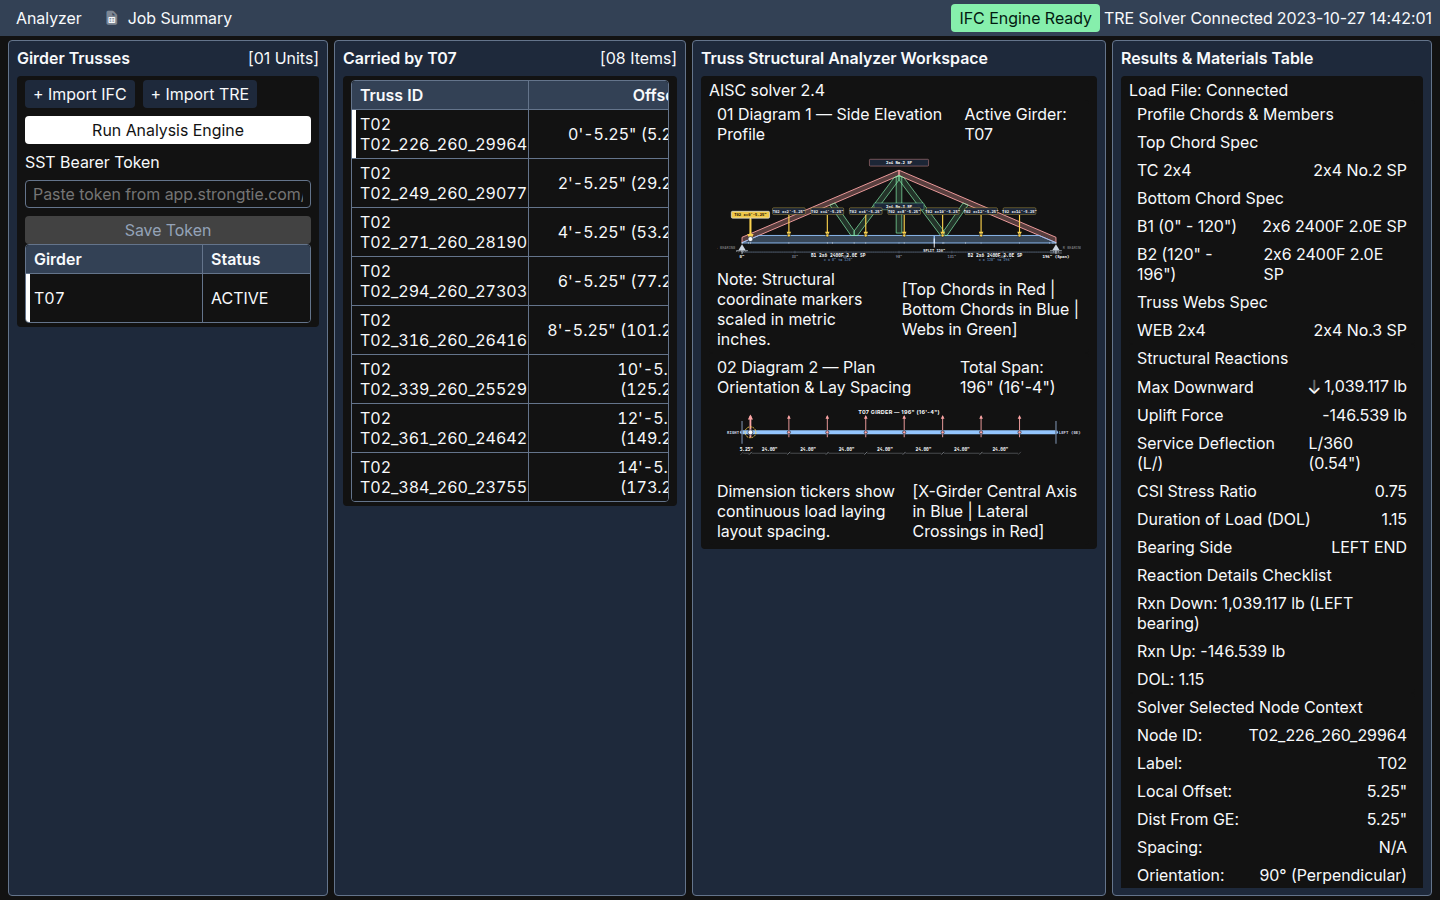
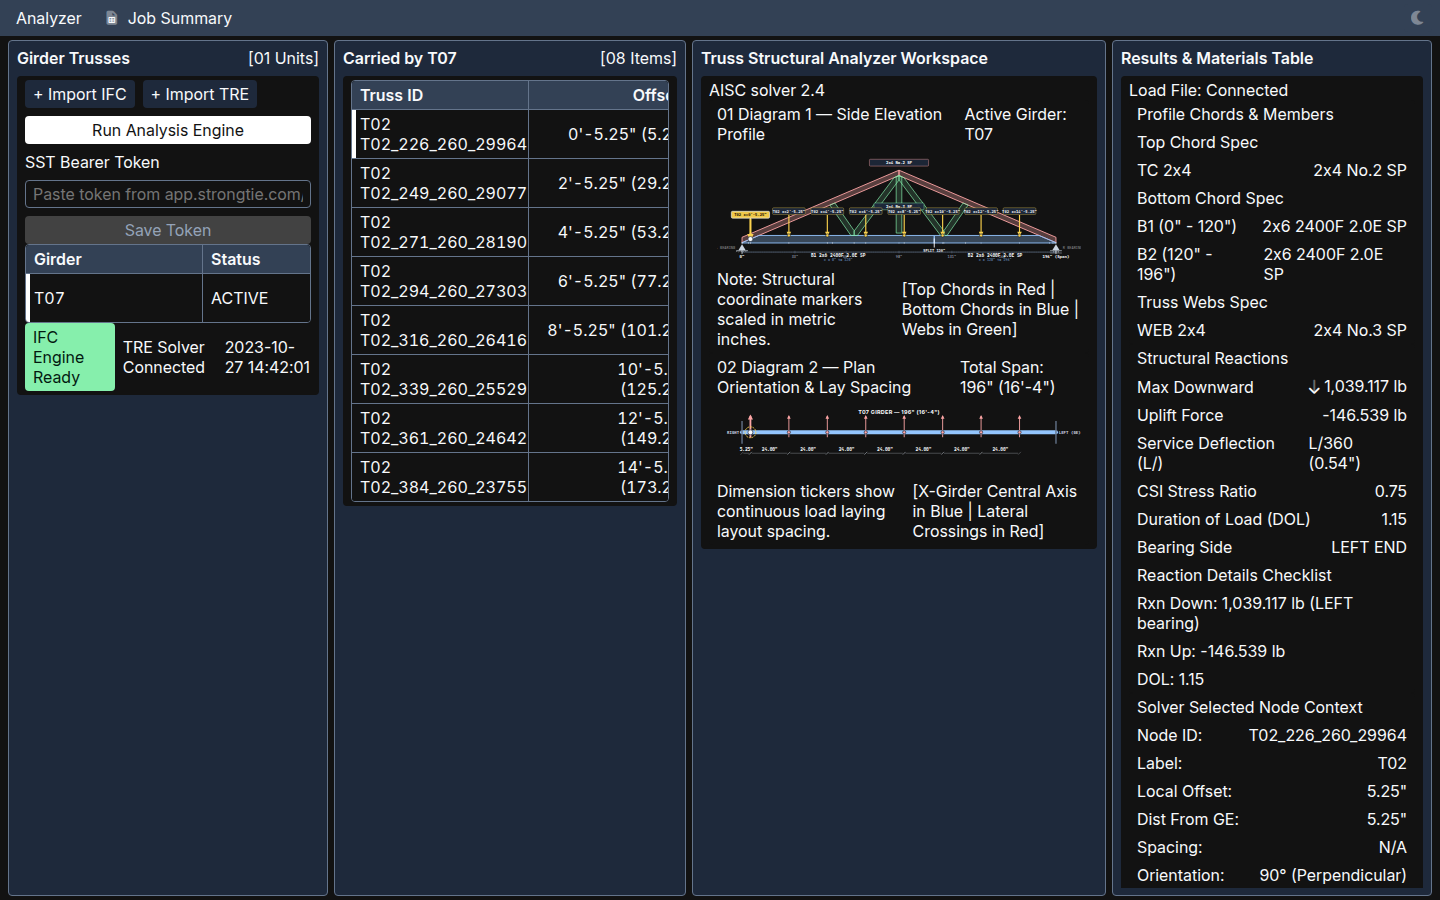
feat:aaui

Changed region(s): [[0.0, 0.3422, 0.2188, 0.4667], [0.6562, 0.0, 1.0, 0.0622]]

diff --git a/src/App.tsx b/src/App.tsx
@@ -118,11 +118,9 @@ export default function App() {
                 </a>
             </nav>
             <div className={AUI.topSpacer}></div>
-            <div className={AUI.topNav} role="group" aria-label="Status">
-                <span className={AUI.chipSuccess}><span className={AUI.chipLabel} {...ATTR}>IFC Engine Ready</span></span>
-                <span className={AUI.text} {...ATTR}>TRE Solver Connected</span>
-                <span className={AUI.text} {...ATTR}>2023-10-27 14:42:01</span>
-            </div>
+            <button type="button" aria-label="Toggle theme" data-aui-theme-toggle className={AUI.topButton}>
+                <AuiIcon name="moon" />
+            </button>
         </div>
 
         <div className={AUI.panes} data-aui-panes="page under-bar">
@@ -141,6 +139,11 @@ export default function App() {
                     selectedId={selectedGirderId}
                     onSelect={(id) => { setSelectedGirderId(id); setActiveTab('analyzer'); }}
                 />
+                <div className={AUI.row} role="group" aria-label="Status">
+                    <span className={AUI.chipSuccess}><span className={AUI.chipLabel} {...ATTR}>IFC Engine Ready</span></span>
+                    <span className={AUI.text} {...ATTR}>TRE Solver Connected</span>
+                    <span className={AUI.text} {...ATTR}>2023-10-27 14:42:01</span>
+                </div>
             </AuiPane>
 
             {/* Main content area */}

diff --git a/src/aui.ts b/src/aui.ts
@@ -42,6 +42,7 @@ export const AUI = {
   linkSelected: `${STATEFUL} aui-scale-default-sm aui-typography-typescale-default aui-shape-soft aui-color-solid-secondary aui-elevation-0 aui-text-decoration-none`,
   buttonRaised: `${STATEFUL} aui-scale-default-sm aui-typography-typescale-default aui-shape-soft aui-color-text-raised aui-elevation-0`,
   buttonRaisedSelected: `${STATEFUL} aui-scale-default-sm aui-typography-typescale-default aui-shape-soft aui-color-solid-secondary aui-elevation-0`,
+  topButton: `${STATEFUL} aui-scale-square-sm aui-typography-typescale-default aui-shape-soft aui-color-solid-raised aui-elevation-0`,
   iconButton: `${STATEFUL} aui-scale-square-sm aui-typography-typescale-default aui-shape-soft aui-color-solid-surface-alt aui-elevation-0`,
   iconWrap: 'aui-contained-icon aui-icon-lh-l3 aui-bg-transparent aui-min-width-0 aui-min-height-0 aui-padding-inline-start-0 aui-padding-inline-end-0 aui-padding-block-start-0 aui-padding-block-end-0 aui-gap-0 aui-shape-soft',
   icon: 'aui-icon aui-icon-size-fallback-14',

diff --git a/GAPS.md b/GAPS.md
@@ -1,7 +1,7 @@
 - No part: progress bar (JobSummaryTable batch query). The standard has no Progress recipe; the browser's own `<progress>` is used.
 - No part: drawings (`PlanViewDiagram`, `SideElevationDiagram` in GirderDetails.tsx).
 - Decision: clickable boxes (GirderList rows became `button`s; section headers still to decide).
-- Gap: no footer in AtomicAUI; the old status footer (IFC Engine Ready / TRE Solver Connected / timestamp) now sits in the top bar.
+- Gap: no footer in AtomicAUI; the old status footer (IFC Engine Ready / TRE Solver Connected / timestamp) now sits at the bottom of the Girder Trusses pane (the top bar holds only the links and the theme toggle).
 - Gap: connection-type boxes (SSTWorkspace) have no part; shown as `panel` / tonal panel (selected).
 - Gap: dead code not restyled (not imported anywhere): `HangerPanel.tsx`, `ExportTab.tsx`, `LogPanel.tsx` (LogPanel is only imported by App, unused).
 - Aligned widget `truss-diagram`: the two SVG drawings in GirderDetails.tsx (side elevation, plan view); colours now read the theme variables, geometry and behaviour unchanged; cannot give: AtomicAUI anatomy, spacing inside the drawing.
